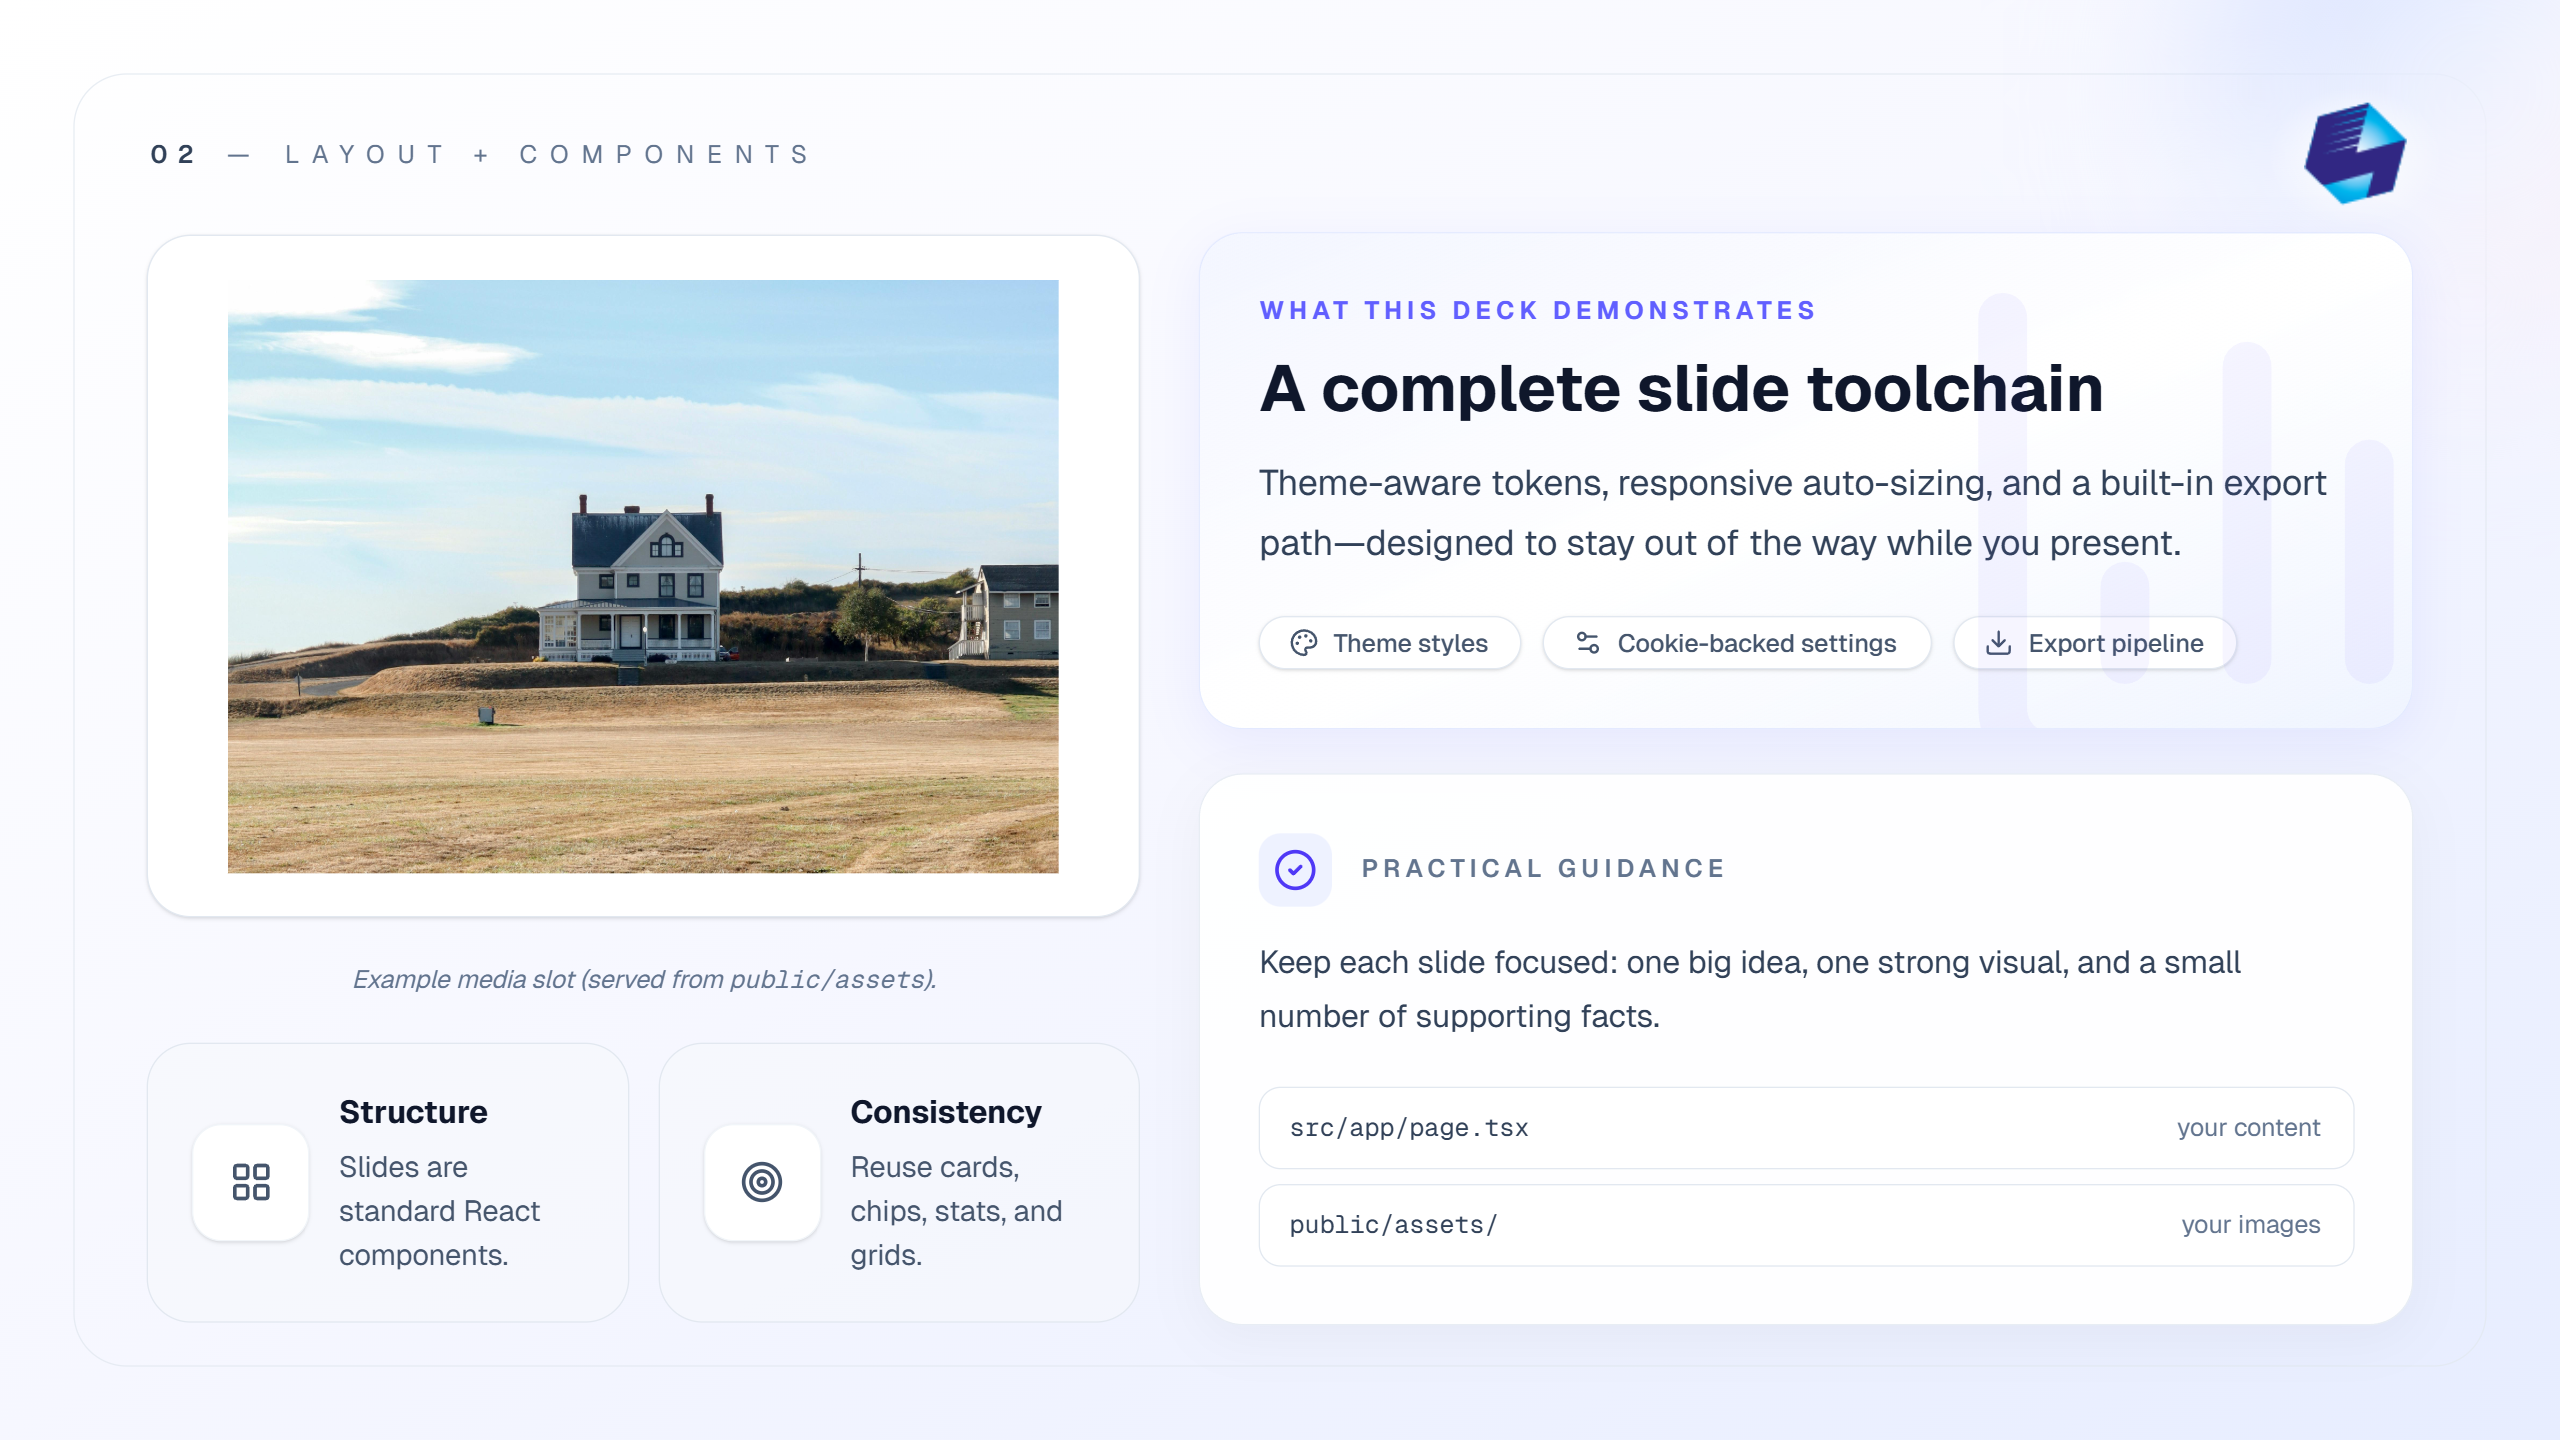
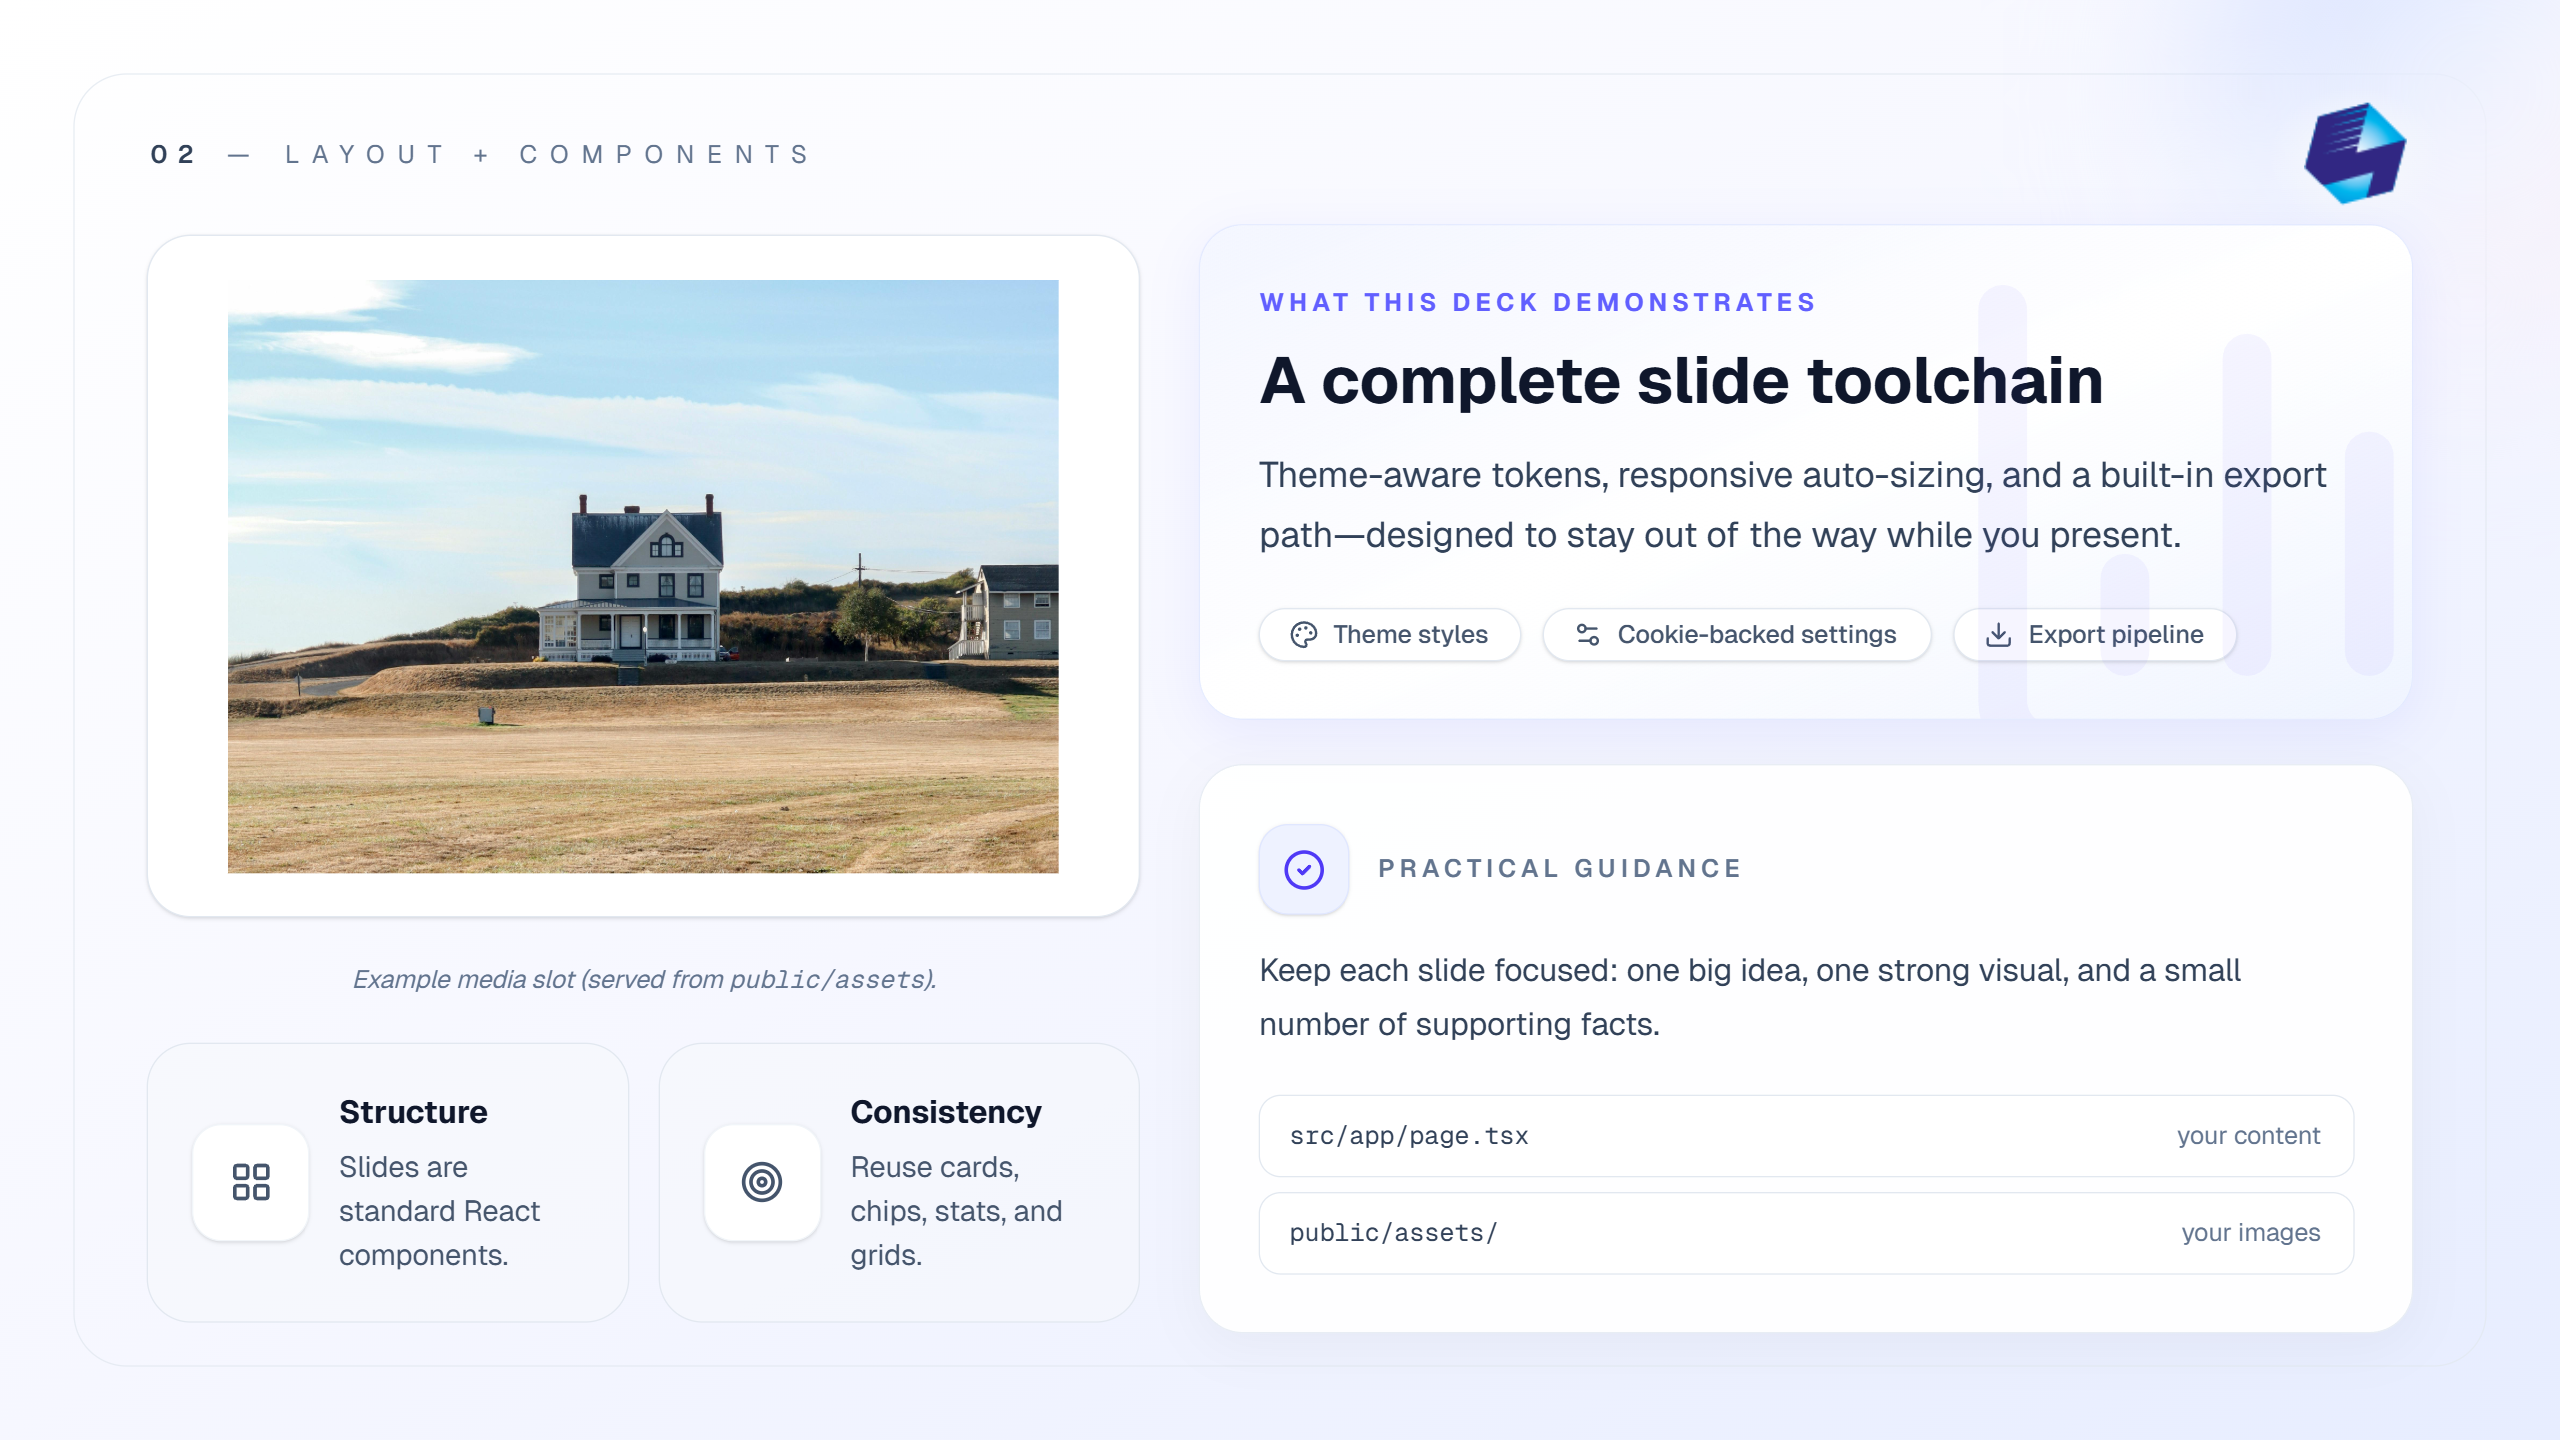
update docs, prompt, and sample images

diff --git a/docs/AI_Usage.md b/docs/AI_Usage.md
@@ -33,6 +33,7 @@ In your LLM chat, attach or paste **all** of the following:
   - `docs/assets/slide1.png`
   - `docs/assets/slide2.png`
   - `docs/assets/slide3.png`
+  - `docs/assets/slide4.png`
 - Your presentation material:
   - a short outline you write, and/or
   - a PDF, notes, paper, links, etc.
@@ -58,6 +59,8 @@ Hard constraints (must follow):
 - For math/LaTeX, use `Latex` from `@/components/latex` (supports `$...$`, `$$...$$`, `\\(...\\)`, `\\[...\\]`).
 - Keep typography and spacing presentation-friendly: readable at a distance, consistent hierarchy.
 - When adding images, assume they live in `public/assets/` and are referenced like `assets/<filename>`.
+- You may use figures, diagrams, images, tables, etc. provided from the reference content (if available). These do not come with captions.
+- Make sure to use the correct and appropriate theme class tokens.
 - Output ONLY the final TypeScript/TSX code for `src/app/page.tsx` (no explanations).
 - Tip: prefer `String.raw\`...\`` when embedding LaTeX so backslashes don’t need double-escaping.
 
@@ -90,9 +93,7 @@ Review every slide at `http://localhost:3000` and fix anything that looks crampe
 
 ## 6) Add/Update Assets
 
-If your generated slides reference images (for example `assets/diagram.png`), copy them into:
-
-- `public/assets/diagram.png`
+If your generated slides reference images, copy them into `public/assets/`. For example, if your generated slides reference `assets/diagram.png`, copy it to `public/assets/diagram.png`. Make sure to replace the logo / branding with your own at `public/assets/logo.png`.
 
 Then refresh the page and confirm all visuals load correctly.
 

diff --git a/README.md b/README.md
@@ -36,6 +36,7 @@ Slides live in `src/app/page.tsx`.
 
 - Each slide is a `<PresentationSlide title="..."> ... </PresentationSlide>`
 - Put static assets in `public/assets/` and reference them like `assets/my-image.png`
+- Update your logo / branding by replacing `public/assets/logo.png` with your own logo.
 - Keep content within the slide frame (vertical space is limited; overflow looks bad in exports)
 
 ### LaTeX / Math
@@ -79,3 +80,9 @@ Use the **Settings** button in the header to adjust:
 - `src/core/slide-exporter.tsx` — “Export” button logic
 - `public/assets/` — images used inside slides
 - `docs/assets/` — documentation screenshots / examples
+
+## Common Fixes
+
+- Ensure that Node.js is installed locally.
+- Ensure that NPM packages have been installed with `npm install`.
+- Ensure that all assets exist in the `public/assets/` directory and are referenced correctly.
